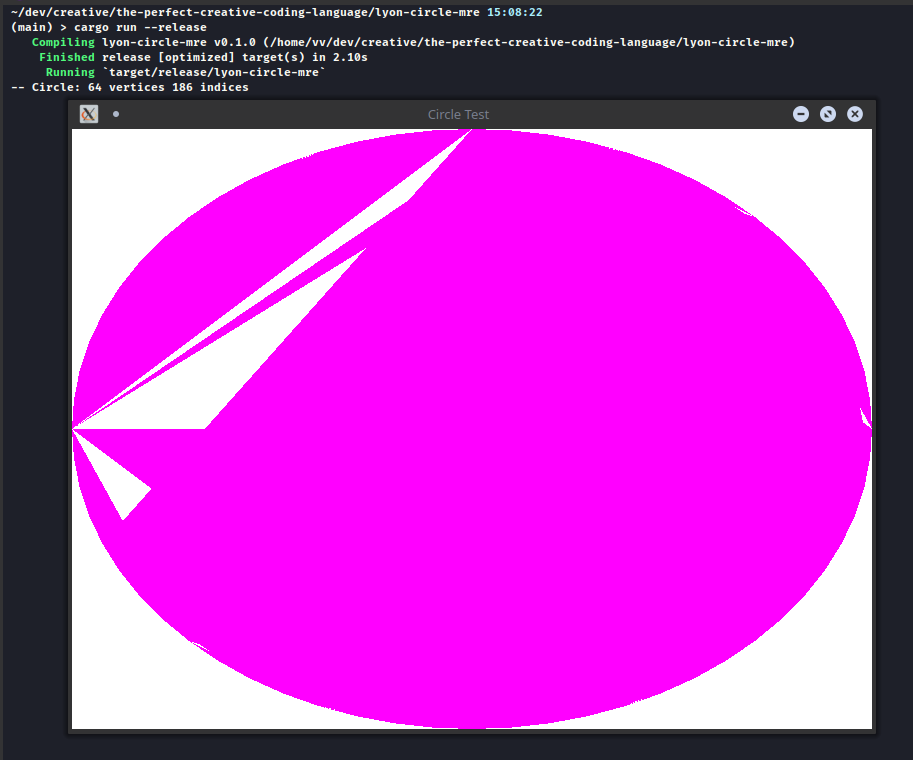
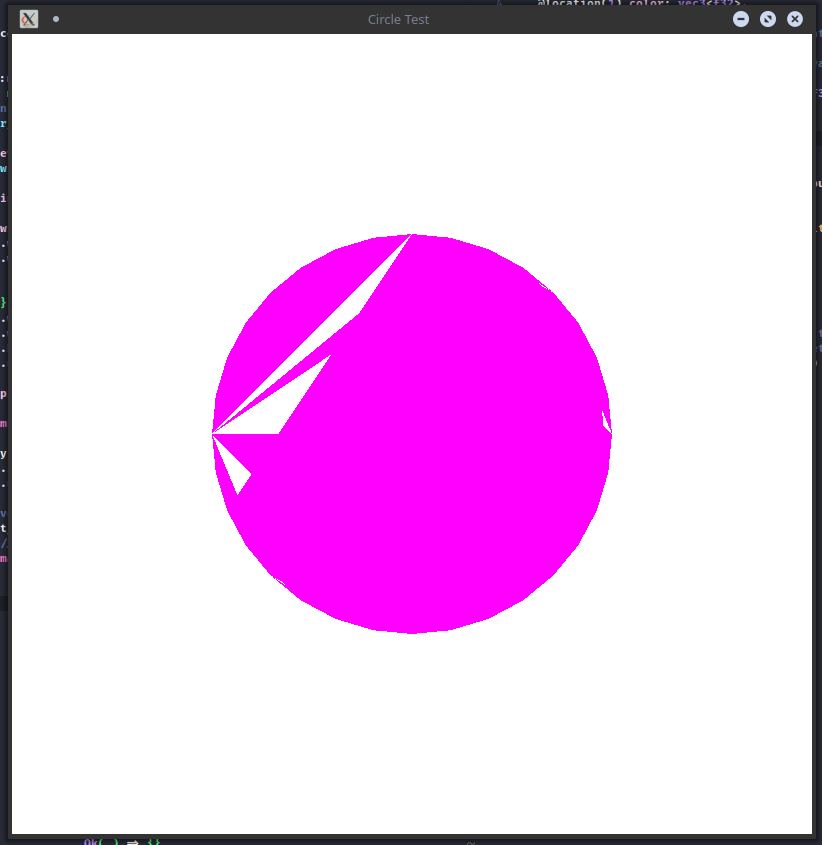
feat: Draw smaller circle
And update the screenshot too.

diff --git a/src/main.rs b/src/main.rs
@@ -418,7 +418,7 @@ async fn main() -> eyre::Result<()> {
         match event {
             // Custom app events
             winit::event::Event::UserEvent(CustomSketchEvent::Rerender(_)) => {
-                let radius = 1.0;
+                let radius = 0.5;
                 let (vertices, indices) =
                     generate_circle((0.0, 0.0), radius, &gpu_state.fill_color);
 
